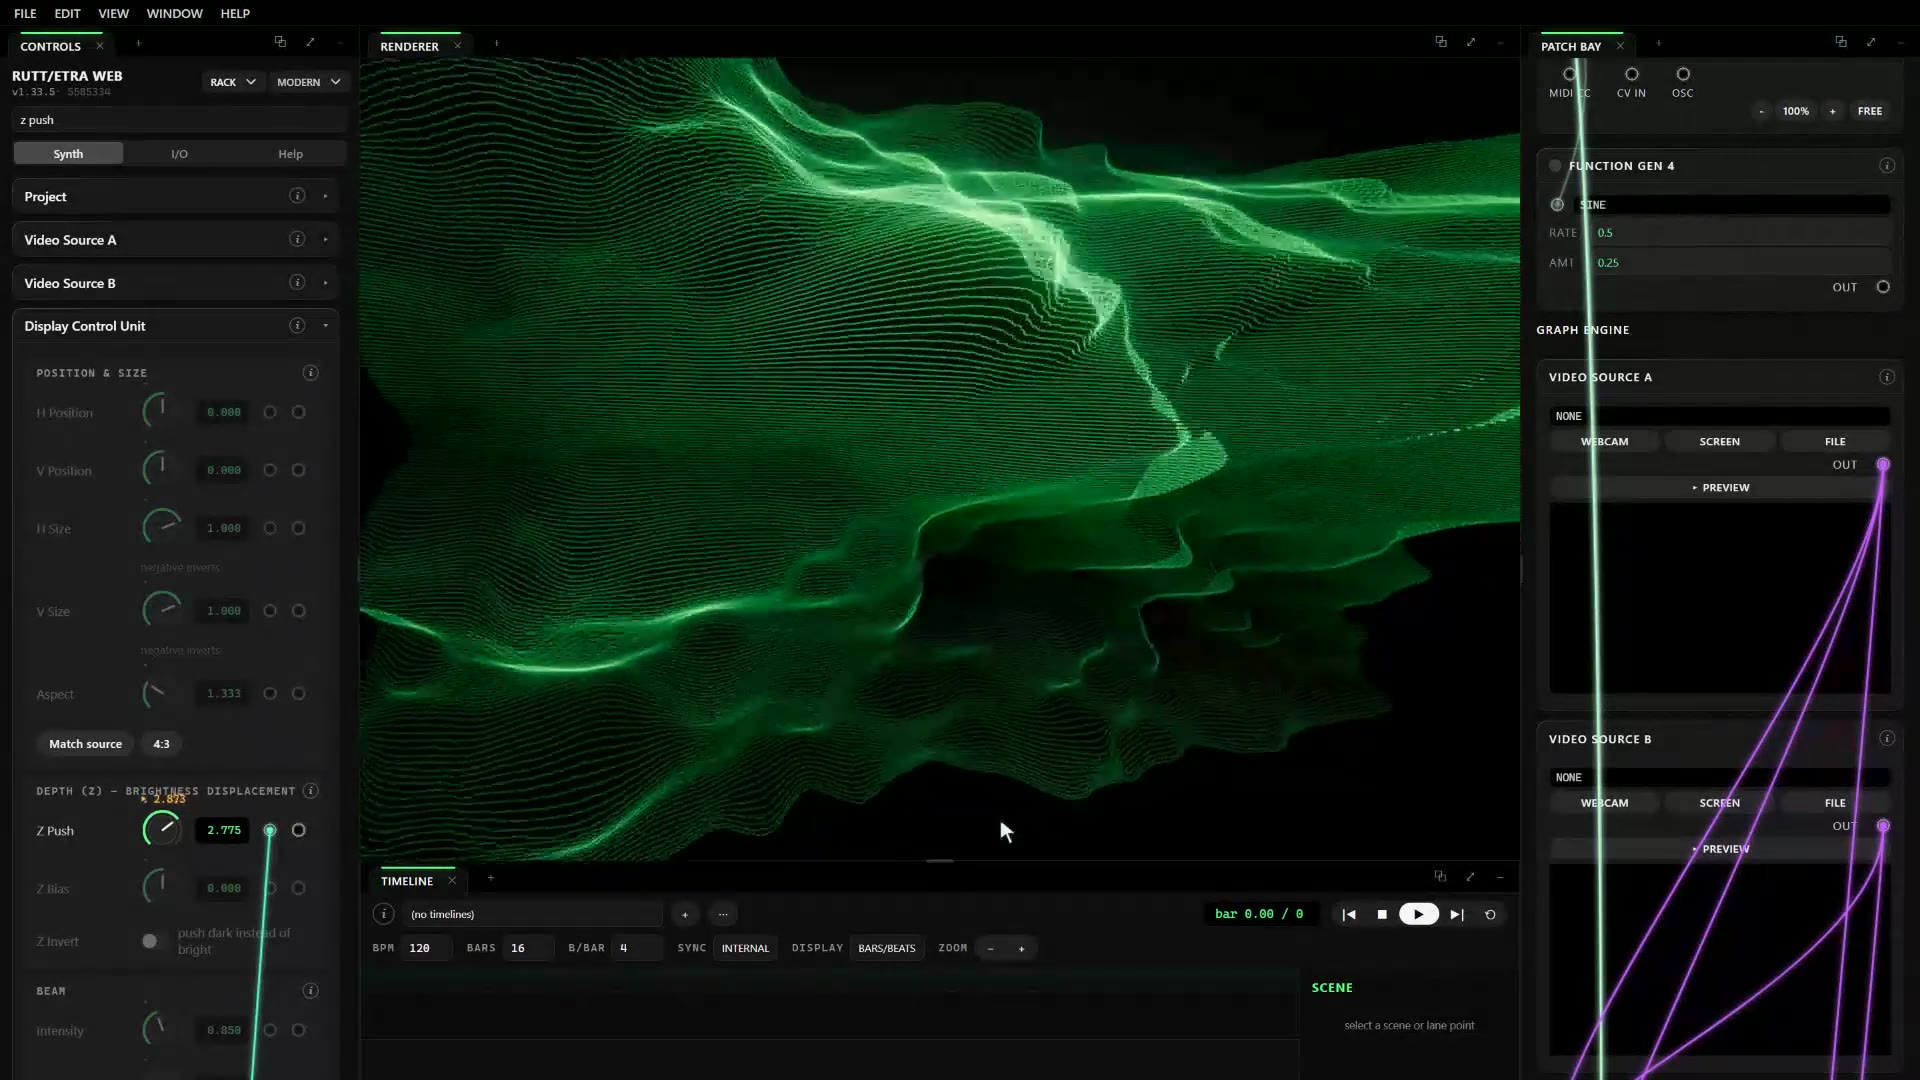
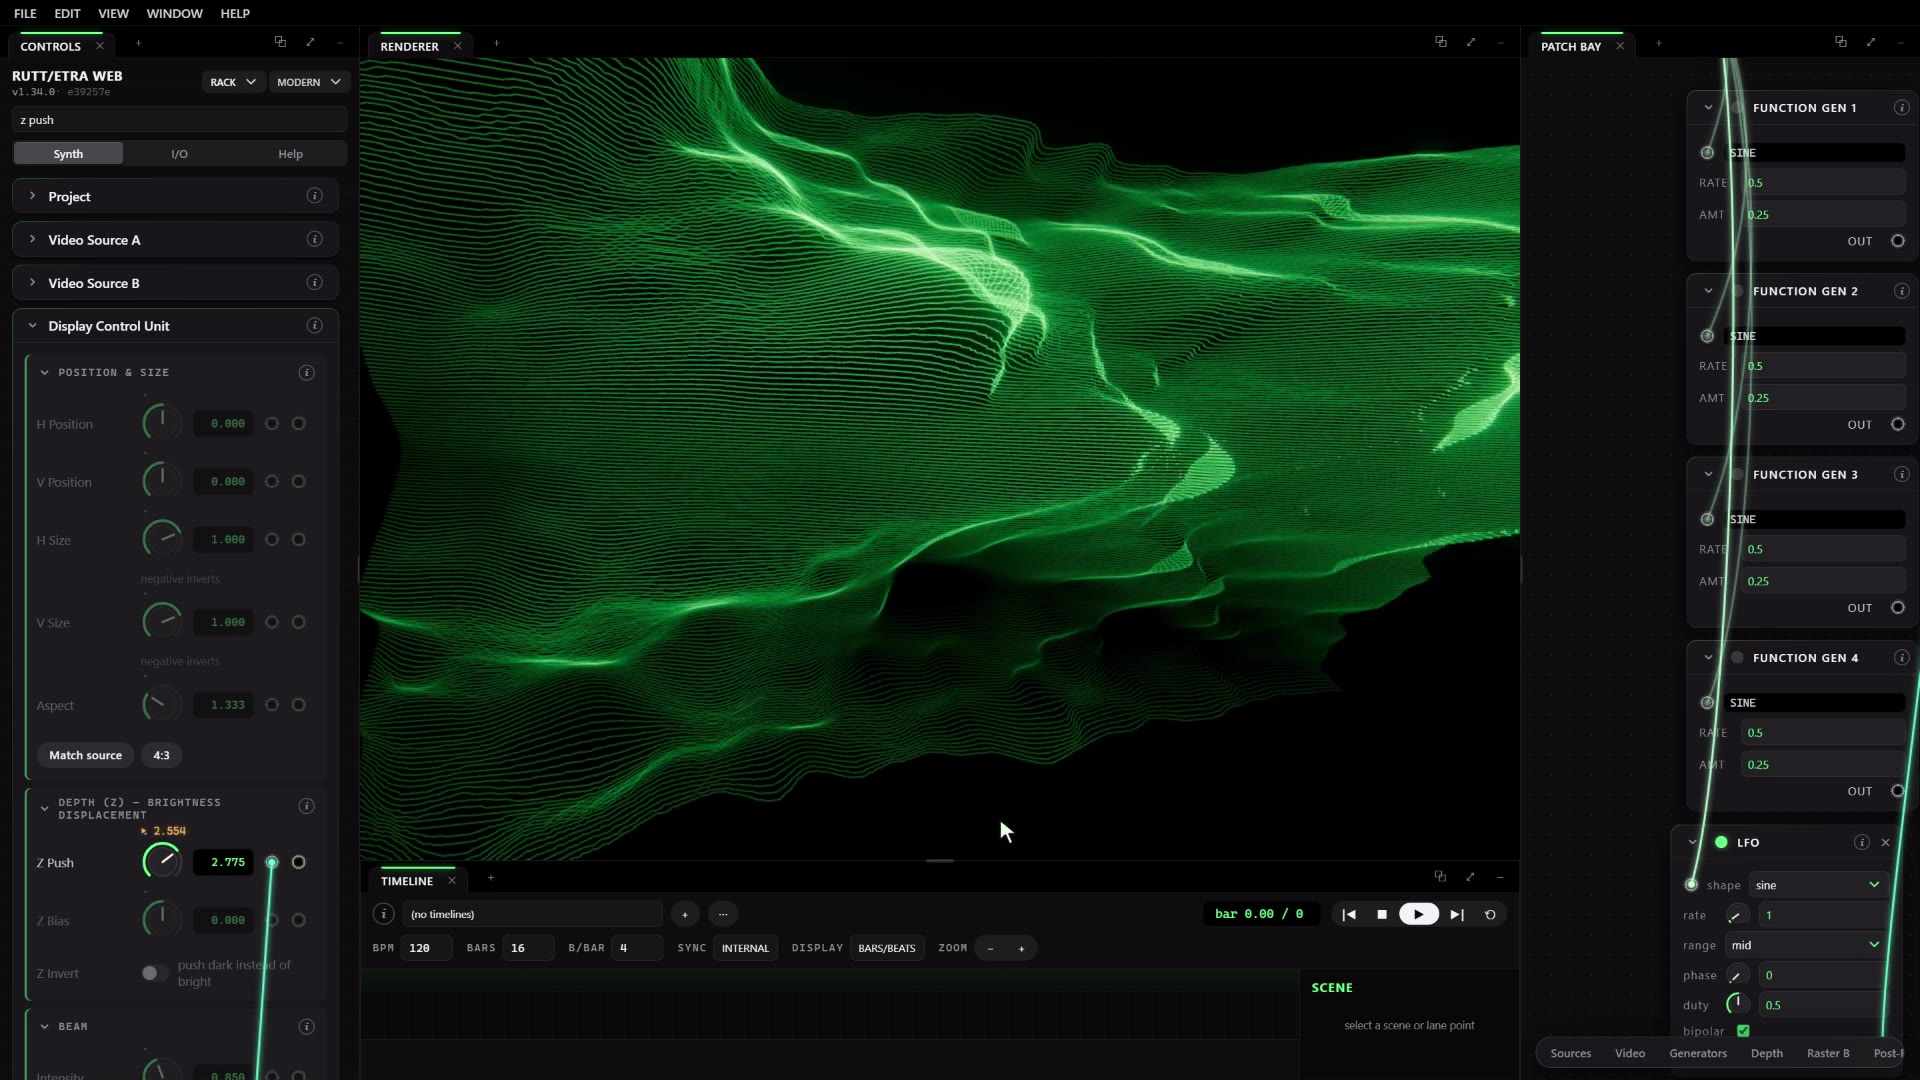
Docs: late-night fix round (window drops, insets, restore prompt, groups always collapsed)

diff --git a/designsystem.html b/designsystem.html
@@ -123,7 +123,7 @@
           </div>
 
           <h3 id="groups">Child groups</h3>
-          <p>A group inside a Controls section is a recessed well. Hovering it lifts the well and lights its title; an open group carries a green rule on its left edge; pressing the title deepens the wash; focus anywhere inside rings the group. Groups start collapsed and remember what you opened.</p>
+          <p>A group inside a Controls section is a recessed well. Hovering it lifts the well and lights its title; an open group carries a green rule on its left edge; pressing the title deepens the wash; focus anywhere inside rings the group. Groups start collapsed every time the app loads.</p>
           <div class="ds-states ds-groups">
             <figure><div class="ds-group"><div class="gh"><button class="ds-caret" tabindex="-1"></button>B · POSITION &amp; SIZE</div></div><figcaption>Collapsed</figcaption></figure>
             <figure><div class="ds-group is-hover"><div class="gh"><button class="ds-caret is-closed" tabindex="-1"></button>B · POSITION &amp; SIZE</div></div><figcaption>Hover</figcaption></figure>
@@ -220,7 +220,7 @@
           <h2>Layout</h2>
           <p>The workspace is four windows: <b>Controls</b> on the left, the <b>Renderer</b> in the centre, the <b>Patch Bay</b> on the right and the <b>Timeline</b> along the bottom. Each window has a tab bar; any view can be added to any window, dragged between them, popped out to its own OS window, collapsed to its tab strip, or maximised. Moving a view never moves a different one.</p>
           <ul class="ds-list">
-            <li>Section and node headers are the disclosure points; a child group inside a section starts collapsed and remembers its state.</li>
+            <li>Section and node headers are the disclosure points; a child group inside a section starts collapsed every time the app loads.</li>
             <li>A collapsed Patch Bay node shows only its header and its sockets, like a node in Blender or TouchDesigner.</li>
             <li>On a phone the interface becomes a camera: full-bleed picture, a capture dock and five sheets.</li>
           </ul>

diff --git a/CLAUDE.md b/CLAUDE.md
@@ -655,10 +655,20 @@ Owner ask: support desktop AND mobile (portals/visitors; a pocket tool to record
 
 Owner-directed design round, verified live in Chrome after every step (screenshots + DOM measurements):
 - **Advanced graph editor** follows the design system: port hover / drop-target / refused (with `rejectReason` tooltip) / plugged states (`rw-rack-jack` classes + `jackRipple.css`), cable hover + click-select + Delete (with unplug ghost), pick up a connected input to move or unplug it, accept/reject rubber-band gradient and cursors, tooltips on ports/heads, ⓘ on every node (`nodeInfo`). `CableLayer` gained `hitTest`/`edge`/`setSelected`/`setHovered`/`setHidden`/`addGhost`. Node titles live in `.rw-graph-node-title` (the tours' `lib/graph.mjs` matches it).
-- **Controls hierarchy (Unity-style)**: every `group()` child collapses (`rw-group--collapsed`, collapsed by default, remembered per title in localStorage `rw-groups-open`, a lone group never collapses, phones always open). `expandGroupsAround(el)` (widgets.ts) opens the groups around a target; PanelSearch hits and the tutorial engine call it. Section AND group carets are the same left-hand disclosure control (the section caret is an `<i class="rw-chev">`, NOT a span: lookups find a section title as the head's first `<span>`). Group heads are full-bleed 36px bars (hover fills the card); the group ⓘ sits at `top:10px; right:12px`; groups are spaced by gap, section bodies pad 12px all round.
+- **Controls hierarchy (Unity-style)**: every `group()` child collapses (`rw-group--collapsed`, collapsed on every load, open state lasts the session only, no exceptions for a lone group; phones always open; `localStorage rw-groups-default = open` starts them open, used only by the video-course recorder). `expandGroupsAround(el)` (widgets.ts) opens the groups around a target; PanelSearch hits and the tutorial engine call it. Section AND group carets are the same left-hand disclosure control (the section caret is an `<i class="rw-chev">`, NOT a span: lookups find a section title as the head's first `<span>`). Group heads are full-bleed 36px bars (hover fills the card); the group ⓘ sits at `top:10px; right:12px`; groups are spaced by gap, section bodies pad 12px all round.
 - **Motion system** (`src/ui/motion.ts`): `animateToggle(host, mutate, undo, {caret, fromDeg, toDeg, width})`, second-order springs: height critically damped (ω26 ζ1), caret + content fade under-damped (ω22 ζ0.55), optional width; velocity carries over a mid-flight reversal; a shrinking box keeps its content visible until done; reduced motion = instant. Used by sections, groups and Patch Bay nodes. Carets rotate via the `--caret` / `--chev` custom property (no `transform` transitions on them).
 - **Patch Bay**: four labelled columns, left to right: GENERATORS (rail: function gens + graph nodes) · DISPLAY CONTROL · RASTER & POST (Dual Raster first) · VIDEO (Video A/B, Pattern, Composite, Renderer). Column captions are `data-pb-static` (hidden in free layout). Every node folds (`.rw-pb-fold` in its handle): a collapsed node is a 232px Blender-style card, one row per parameter with the input socket on the left border and the output on the right (`buildPorts`/`syncPorts`; proxies forward pointerdown to the real jack, cables anchor to them via `proxyOf`), summary under the title. Free layout no longer rescales node widths on window resize (it squeezed and overlapped nodes); dropping a node on another takes the nearest free spot in view (`placeNearestFree`) or springs back. Labels wrap to two lines; headers keep caret/LED/ⓘ at full size.
 - **Rack jacks** are re-injected for rebuilt rows (`paramJacks.get(key)?.isConnected`); Pattern Generator kind switches used to leave rows without jacks. The per-param "+" becomes an "LFO" button (jumps to its slot) with a ✕. Controls panel min width 320.
 - **Design system page**: `designsystem.html` + `src/designsystem/` (static, in the about-bundle guard; Help ▸ Design System): tokens, type, spacing, every control in every state, live spring demo.
 - Tutorial recordings force child groups open (init style in `tools/tutorials/build.mjs`) so tours written before the hierarchy still find their controls.
 
+### State of the late-night fix round (2026-10-17, branch `mobile-modern`, v1.34.0)
+
+Owner reports after the design pass, each fixed and checked live in Chrome (Playwright probes in `tools/tutorials/out/probe-win*.mjs`, `probe-row2.mjs`, `probe-rec.mjs`):
+- **Window drag-and-drop**: the empty-window drop zones were keyed to window IDS, but the default layout mirrors them (`panelDock: 'left'` puts the 'right' window — Controls — on the screen's LEFT), so a tab dragged to the left edge revealed the window on the right. `emptyWindowAt()` now maps screen sides through `mirrored()`. Also: a tab dropped anywhere on an occupied window's BODY joins that window (`windowBodyAt`, dashed outline while hovering); the timeline's own tab dragged to the other edge re-docks it top ↔ bottom (edge marker `.rw-drop-edge`). Verified: every move between all four windows, into and out of empty windows, both edges.
+- **Stale screen insets**: an "extra" Controls instance (a Controls tab hosted in another window) published `--rw-panel-inset-*`, pinning the timeline dock at the old edge after the side window emptied. Only `#panel-root` publishes an inset now. A collapsed Controls window publishes its strip width (`--rw-strip`), not 40.
+- **Controls min width follows Text Size** (`ControlPanel.minWidth()` = 340 × scale, re-applied via `subscribeTextScale`): rack OUT jacks keep ≥8px inside their card at 100 / 110 / 125%. Row grid is `110px minmax(0, 1fr)` so a wide control can't push the row past its card.
+- **Restore / clear on refresh**: `beforeunload` writes a recovery snapshot whenever the project is dirty (not only with Auto-save on); the next load asks "Restore your previous session…? OK restores, Cancel clears". This reverses the launch-hardening choice at the owner's request.
+- **Child groups always start collapsed** (no remembered state, no lone-group exception).
+- **Graph editor**: port kinds (audio / video / control) are categories of scalar signals, not types — any output may feed any input; only a loop into the same node is refused.
+- **Tutorial harness**: `h.drag` verifies a cable only when the drag starts on a jack; `verifyDrop` re-queries the jack (the graph editor re-renders on connect); `scrollToModule` also scrolls horizontally (the board is four columns wide); failed tours save `out/fail-<id>.png`. All 31 lessons dry-run green, then re-recorded.

diff --git a/README.md b/README.md
@@ -27,11 +27,13 @@ npm run build
 
 ## Recent changes (v1.34, October 2026 — hierarchy, motion and the Patch Bay redesign)
 
-- **Collapsible hierarchy in Controls**, Unity-style: every sub-group (Capture Settings, Webcam, Pattern Generator, Dual Trace…) folds; groups start collapsed and remember what you opened; search and the tutorial open whatever they point at. Section and group carets are the same control, on the left.
+- **Collapsible hierarchy in Controls**, Unity-style: every sub-group (Capture Settings, Webcam, Pattern Generator, Dual Trace…) folds; groups start collapsed every time the app loads; search and the tutorial open whatever they point at. Section and group carets are the same control, on the left.
 - **Spring motion**: everything that opens or closes moves with second-order (spring) motion. Height settles without overshoot, the caret swings and settles, and reversing mid-move keeps its momentum.
 - **Patch Bay redesign**: four labelled columns left to right (Generators · Display control · Raster & post · Video). Every node folds to a compact Blender-style card that still shows all of its sockets on its edges. Dropping a node on another lands it beside it, in view. Labels wrap instead of clipping.
 - **Advanced graph editor** gets the full cable language: port hover / target / refused states with reasons, cable hover, select and Delete, pick up a connected input to move or unplug it, tooltips and ⓘ on every node.
 - **Design system page** (`designsystem.html`, Help ▸ Design System): every token and every control in every state.
+- **Windows**: drag a tab to any window — onto its tab strip, anywhere on its body, or to an empty window's edge — and it lands where you dropped it (the drop zones had been mirrored since Controls moved to the left). Drag the Timeline's tab to the top or bottom edge to re-dock it.
+- **Restore after refresh**: reloading with unsaved changes asks to restore the previous session or clear it.
 - Fixes: Pattern Generator rows lost their patch jacks after a kind change; the "+" LFO patch button now shows and removes its LFO; minimum Controls width 320px; a node in free layout no longer gets squeezed when the window shrinks.
 
 

diff --git a/.claude/skills/preflight/SKILL.md b/.claude/skills/preflight/SKILL.md
@@ -357,6 +357,17 @@ Run these in order; stop and report on the first failure:
   zero (cable anchors, snap search).
 
 
+## Workspace drop invariants (v1.34)
+
+- **Screen side ≠ window id.** With the default `panelDock: 'left'` the
+  'right' window (Controls) is on the LEFT. Anything that maps a pointer
+  position to a window (drop zones, edge reveals, insets) goes through
+  `mirrored()` — test drags with BOTH the default and the Classic preset.
+- **Only `#panel-root` publishes `--rw-panel-inset-*`**; a Controls view
+  hosted in another window is an extra instance and must not.
+- **Refresh recovery is unconditional**: `beforeunload` snapshots when
+  dirty; don't re-gate it on the Auto-save toggle (owner decision).
+
 ## Deploy warning
 
 Pushing to `main` triggers the production FTP deploy

diff --git a/docs/design/panel-design-system.md b/docs/design/panel-design-system.md
@@ -260,9 +260,8 @@ Gotchas that have bitten (each is commented in the file):
 - **Sections and groups** both collapse. The caret is on the LEFT of the
   title in both (same chevron, same states: rest grey, hover green wash,
   pressed deeper wash + 0.88 scale, focus ring; points down when open,
-  right when closed). Groups start collapsed and remember their state per
-  title; a section with a single group never collapses it; phones show
-  groups open.
+  right when closed). Groups start collapsed on every
+  load (open state lasts the session only); phones show groups open.
 - **Group cards**: the head is a full-bleed 36px bar (hover and press fill
   the whole card); the ⓘ sits centred on it 12px from the right, mirroring
   the caret 12px from the left. An open group shows a green rule on its
